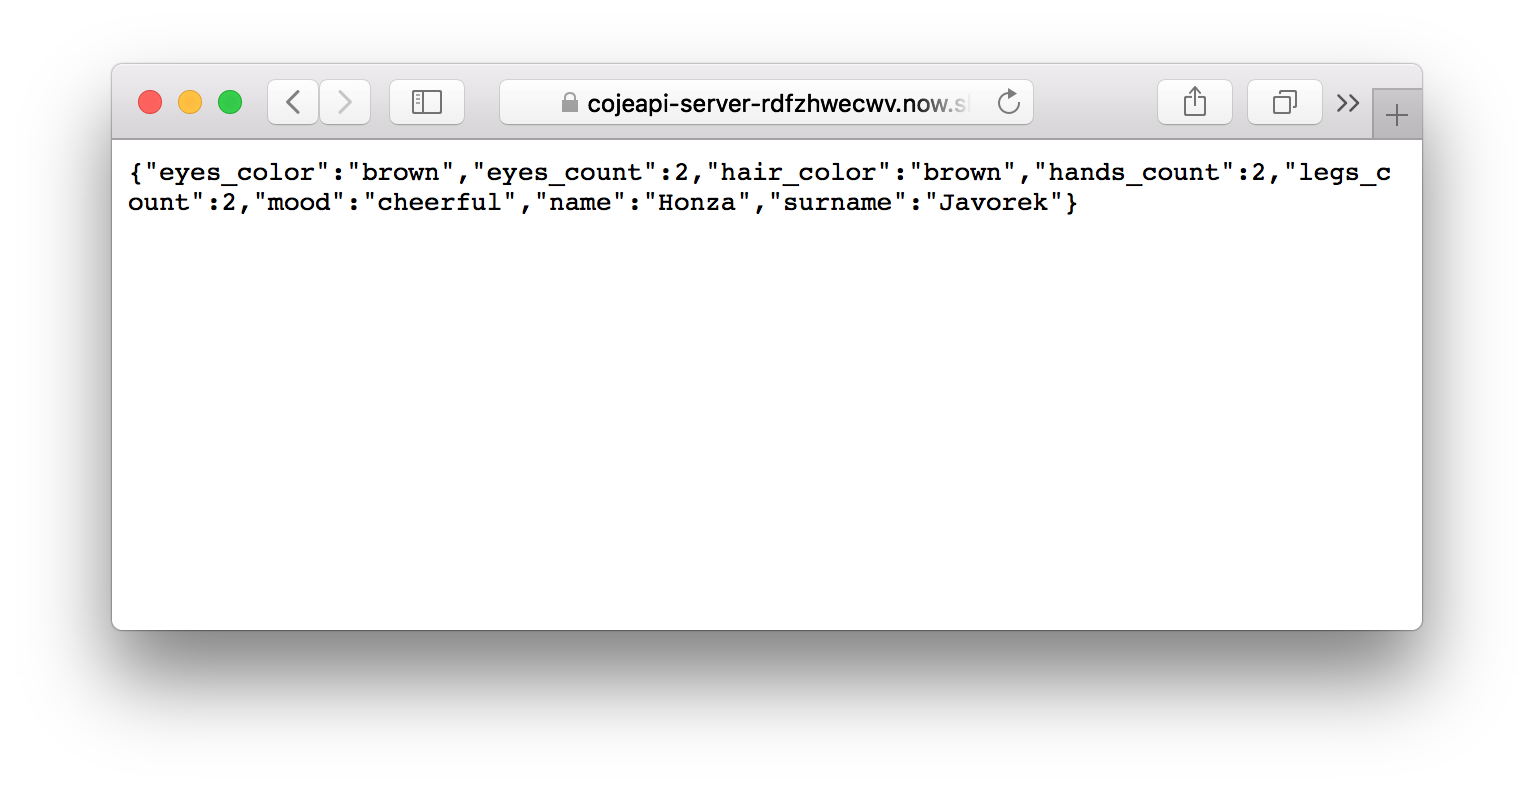
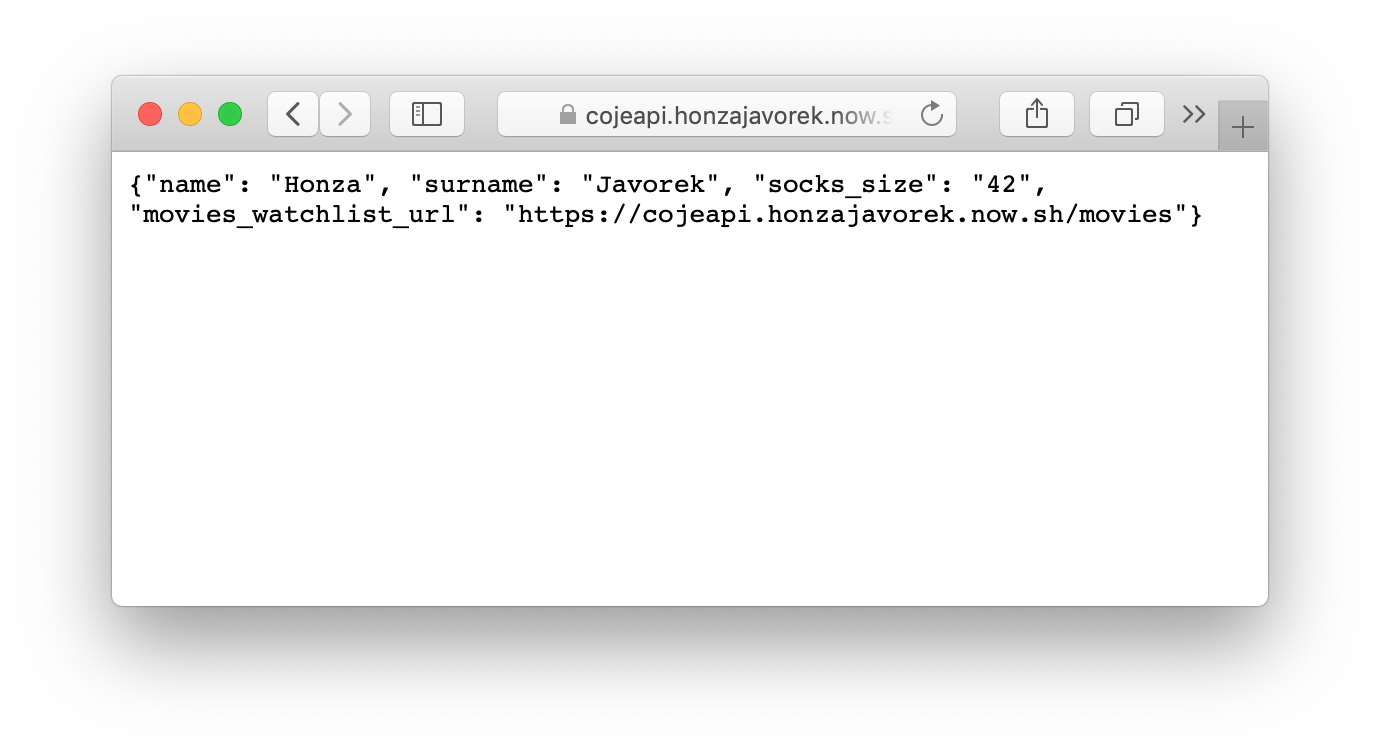
rewrite deployment to now.sh 2.0 by @zeit
Close https://github.com/honzajavorek/cojeapi/issues/34, close https://github.com/honzajavorek/cojeapi/issues/39, close https://github.com/honzajavorek/cojeapi/issues/40, close https://github.com/honzajavorek/cojeapi/issues/36

Changed region(s): [[0.0623, 0.0915, 0.9348, 0.8541]]

diff --git a/code/index.py b/code/index.py
@@ -26,6 +26,7 @@ movies = [
         'name': 'The Last Boy Scout',
         'name_cs': 'Poslední skaut',
         'year': 1991,
+        'stars': ['Bruce Willis', 'Damon Wayans', 'Chelsea Field'],
         'imdb_url': 'https://www.imdb.com/title/tt0102266/',
         'csfd_url': 'https://www.csfd.cz/film/8283-posledni-skaut/',
     },
@@ -34,6 +35,7 @@ movies = [
         'name': 'Mies vailla menneisyyttä',
         'name_cs': 'Muž bez minulosti',
         'year': 2002,
+        'stars': ['Markku Peltola', 'Kati Outinen', 'Juhani Niemelä'],
         'imdb_url': 'https://www.imdb.com/title/tt0311519/',
         'csfd_url': 'https://www.csfd.cz/film/35366-muz-bez-minulosti/',
     },
@@ -42,6 +44,7 @@ movies = [
         'name': 'Sharknado',
         'name_cs': 'Žralokonádo',
         'year': 2013,
+        'stars': ['Ian Ziering', 'Tara Reid', 'John Heard'],
         'imdb_url': 'https://www.imdb.com/title/tt2724064/',
         'csfd_url': 'https://www.csfd.cz/film/343017-zralokonado/',
     },
@@ -50,6 +53,7 @@ movies = [
         'name': 'Mega Shark vs. Giant Octopus',
         'name_cs': 'Megažralok vs. obří chobotnice',
         'year': 2009,
+        'stars': ['Debbie Gibson', 'Lorenzo Lamas', 'Vic Chao'],
         'imdb_url': 'https://www.imdb.com/title/tt1350498/',
         'csfd_url': 'https://www.csfd.cz/film/258268-megazralok-vs-obri-chobotnice/',
     },
@@ -116,6 +120,14 @@ def get_movie_by_id(movies, id):
             return movie
 
 
+def remove_movie_by_id(movies, id):
+    for i, movie in enumerate(movies):
+        if movie['id'] == id:
+            del movies[i]
+            return True
+    return False
+
+
 class MovieResource():
 
     def on_get(self, request, response, id):
@@ -130,6 +142,16 @@ class MovieResource():
             del movie_repr['id']
 
             response.body = json.dumps(movie_repr)
+
+    def on_delete(self, request, response, id):
+        movie = get_movie_by_id(movies, id)
+        if movie is None:
+            response.status = '404 Not Found'
+        elif 'Bruce Willis' in movie['stars']:
+            response.status = '403 Forbidden'
+        else:
+            remove_movie_by_id(movies, id)
+            response.status = '204 No Content'
 
 
 app = falcon.API()

diff --git a/en/conf.py b/en/conf.py
@@ -180,7 +180,15 @@ epub_exclude_files = ['search.html']
 
 # -- External links check -------------------------------------------------
 
-linkcheck_ignore = ['http://127.0.0.1:8000']
+linkcheck_ignore = [
+    # Sphinx (contributing docs)
+    'http://127.0.0.1:8000',
+
+    # Waitress & Falcon
+    'http://0.0.0.0:8080',
+    'http://127.0.0.1:8080',
+    'http://localhost:8080',
+]
 
 
 # -- Extension configuration -------------------------------------------------

diff --git a/cs/conf.py b/cs/conf.py
@@ -181,8 +181,13 @@ epub_exclude_files = ['search.html']
 # -- External links check -------------------------------------------------
 
 linkcheck_ignore = [
-    # localhost
+    # Sphinx (contributing docs)
     'http://127.0.0.1:8000',
+
+    # Waitress & Falcon
+    'http://0.0.0.0:8080',
+    'http://127.0.0.1:8080',
+    'http://localhost:8080',
 
     # heureka.cz blocks requests from CI
     'https://www.heureka.cz',

diff --git a/cs/04-tvorime-server.rst b/cs/04-tvorime-server.rst
@@ -72,9 +72,9 @@ Nyní můžeme spustit naše API. Stačí spustit ``waitress-serve`` s nápověd
     (venv)$ waitress-serve index:app
     Serving on http://0.0.0.0:8080
 
-Waitress nám píše, že na adrese ``http://0.0.0.0:8080`` teď najdeme spuštěné naše API. Bude tam čekat na :ref:`požadavky <http-request>` tak dlouho, dokud v programu nenastane chyba (potom "spadne"), nebo dokud jej v terminálu neukončíme pomocí :kbd:`Ctrl+C`.
+Waitress nám píše, že na adrese http://0.0.0.0:8080 teď najdeme spuštěné naše API. Bude tam čekat na :ref:`požadavky <http-request>` tak dlouho, dokud v programu nenastane chyba (potom "spadne"), nebo dokud jej v terminálu neukončíme pomocí :kbd:`Ctrl+C`.
 
-Když nyní v prohlížeči půjdeme na adresu ``http://0.0.0.0:8080``, měli bychom vidět očekávanou :ref:`odpověď <http-response>`:
+Když nyní v prohlížeči půjdeme na adresu http://0.0.0.0:8080, měli bychom vidět očekávanou :ref:`odpověď <http-response>`:
 
 .. image:: ../_static/images/me-api-text.png
     :alt: Odpověď v textovém formátu
@@ -315,7 +315,7 @@ Doteď bylo to, co jsme poslali v odpovědi, vždy shodné s tím, jak máme dat
     :language: python
     :pyobject: represent_movies
 
-Nyní pojďme upravit ``MoviesResource``. Víme, že adresa našeho API je teď ``http://0.0.0.0:8080``, ale jakmile budeme chtít aplikaci :ref:`uveřejnit někam na internet <nowsh>`, bude zase jiná. Proto je lepší si ji vytáhnout z objektu ``request``. Falcon nám ji poskytuje jako `request.prefix <https://falcon.readthedocs.io/en/stable/api/request_and_response.html#falcon.Request.prefix>`__.
+Nyní pojďme upravit ``MoviesResource``. Víme, že adresa našeho API je teď http://0.0.0.0:8080, ale jakmile budeme chtít aplikaci :ref:`uveřejnit někam na internet <nowsh>`, bude zase jiná. Proto je lepší si ji vytáhnout z objektu ``request``. Falcon nám ji poskytuje jako `request.prefix <https://falcon.readthedocs.io/en/stable/api/request_and_response.html#falcon.Request.prefix>`__.
 
 .. literalinclude:: ../code/movies_repr.py
     :language: python
@@ -643,16 +643,33 @@ Jediným rozdílem je to, že v jejich API byl použit kód :status:`401`. Ten s
 Uveřejňujeme API
 ----------------
 
-.. warning::
+Pokaždé, když jsme spustili Waitress, mohli jsme své API zkoušet na adrese http://0.0.0.0:8080. Možná jste si všimli, že když Waitress v terminálu nejela, adresu nešlo použít.
 
-    Tato kapitola je právě přepisována, aby co nejlépe odrážela současný stav věcí a plně podporovala now 2.0.
+.. code-block:: text
 
-Zatím jsme naši aplikaci spouštěli pouze na svém počítači a neměl k ní přístup nikdo jiný, než my sami. Nebylo by lepší, kdyby naše API bylo veřejné a mohli by jej používat naši kamarádi?
+    $ curl -i http://0.0.0.0:8080/
+    curl: (7) Failed to connect to 0.0.0.0 port 8080: Connection refused
 
-Můžeme k tomu využít službu `now.sh <https://zeit.co/now>`__. Ta nám umožní uveřejnit aplikaci tak, aby nebyla jen na našem počítači, ale mohl na ni přistupovat kdokoliv. Nejdříve nainstalujeme program ``now``:
+.. image:: ../_static/images/localhost-error.png
+    :alt: Adresu http://0.0.0.0:8080 nelze použít ani v prohlížeči
+    :align: center
+
+Tato adresa je totiž spjata s tím, jestli Waitress zrovna jede nebo ne. Také tato adresa funguje jen pro nás. I když spustíme Waitress a na adrese http://0.0.0.0:8080 uvidíme naše API, nikdo jiný jej na té samé adrese nenajde. Je to proto, že adresa ``0.0.0.0`` znamená "na tomto počítači". Pokud bychom tedy někomu poslali http://0.0.0.0:8080/movies jako odkaz na seznam našich oblíbených filmů, je to podobné, jako bychom posílali ``C:\\Users\Honza\Documents\filmy.xlsx``.
+
+.. note::
+    Adres, které znamenají "na tomto počítači" je více. Ekvivalentně k http://0.0.0.0:8080 funguje i http://127.0.0.1:8080 nebo http://localhost:8080. Můžete si to klidně vyzkoušet. Když zapnete Waitress, všechny uvedené adresy by měly mířit na vaše API.
+
+Now
+^^^
+
+Abychom mohli naše API někomu ukázat, musíme jej nejdříve uveřejnit na internet. Můžeme k tomu využít službu `Now <https://zeit.co/now>`__  od společnosti `Zeit <https://zeit.co/>`__. Nejdříve nainstalujeme program ``now``:
 
 #.  Půjdeme na https://zeit.co/download a nainstalujeme si ``now`` pro náš systém
-#.  Otevřeme si příkazovou řádku a zkusíme napsat ``now --version``, abychom ověřili, zda vše funguje, jak má
+
+    .. note::
+        Pokud používáme **Windows**, stáhne se nám archiv ``now-win.exe.gz``. Po rozbalení dostaneme spustitelný soubor ``now-win.exe``. Ten přejmenujeme na ``now.exe`` a přidáme jej do systémové cesty. Pokud přidávat programy do systémové cesty neumíme, pro účely tohoto návodu postačí, pokud soubor ``now.exe`` dáme do složky s naším projektem (tzn. do té složky, kde máme ``index.py``).
+
+#.  Otevřeme si příkazovou řádku a zkusíme spustit ``now --version``, abychom ověřili, zda vše funguje, jak má
 #.  V témže adresáři, ve kterém máme ``index.py``, vytvoříme nový soubor ``now.json`` s následujícím obsahem:
 
     .. literalinclude:: ../code/now.json
@@ -663,34 +680,58 @@ Můžeme k tomu využít službu `now.sh <https://zeit.co/now>`__. Ta nám umož
     .. literalinclude:: ../code/requirements.txt
         :language: text
 
-    Tím říkáme, že aby naše API fungovalo, bude potřeba nejdříve nainstalovat Falcon. Waitress do souboru psát nebudeme, ten potřebujeme jen pro spuštění na našem počítači, `now.sh <https://zeit.co/now>`__ si poradí i bez něj.
+    Tím říkáme, že aby naše API fungovalo, bude potřeba nejdříve nainstalovat Falcon. Waitress do souboru psát nebudeme, tu potřebujeme jen pro spuštění na našem počítači, `now.sh <https://zeit.co/now>`__ si poradí i bez ní.
 
-#.  Nyní zkusíme na příkazové řádce, v našem adresáři s aplikací, spustit příkaz ``now``
-#.  Je pravděpodobné, že ``now`` po nás bude chtít e-mailovou adresu. Zadáme ji a ověříme v naší e-mailové schránce
-#.  Když nyní znova spustíme ``now``, nahraje se naše aplikace na internet (bude to nejspíše chvíli trvat)
+#.  Nyní zkusíme na příkazové řádce, v našem adresáři s aplikací, spustit příkaz ``now login``
+#.  Now po nás bude chtít e-mailovou adresu. Zadáme ji a ověříme v naší e-mailové schránce
+#.  Když nyní spustíme ``now``, nahraje se naše aplikace na internet (bude to nejspíše chvíli trvat)
 #.  Po nějaké době bychom měli dostat adresu, na které můžeme naše API najít - něco ve tvaru https://cojeapi.honzajavorek.now.sh/
 
-Když na tuto adresu půjdeme v prohlížeči, měli bychom vidět HTTP odpověď na endpoint ``/``:
+Pokud na tuto adresu půjdeme v prohlížeči, měli bychom vidět naše API:
 
 .. image:: ../_static/images/now.png
     :alt: now.sh v prohlížeči
     :align: center
 
-Můžeme na naše API posílat požadavky samozřejmě i pomocí curl:
+Samozřejmě můžeme na naše API posílat požadavky i pomocí curl:
 
 .. code-block:: text
 
-    $ curl -i 'https://cojeapi.honzajavorek.now.sh/'
     HTTP/2 200
-    date: Sat, 10 Nov 2018 11:12:32 GMT
-    ...
     content-type: application/json
+    content-length: 129
+    ...
+    server: now
 
-    {"eyes_color":"brown","eyes_count":2,"hair_color":"brown","hands_count":2,"legs_count":2,"mood":"grumpy","name":"Honza","surname":"Javorek"}
+    {"name": "Honza", "surname": "Javorek", "socks_size": "42", "movies_watchlist_url": "https://cojeapi.honzajavorek.now.sh/movies"}
 
-A co je ještě lepší, na rozdíl od všech předchozích případů, nyní může na naše API posílat požadavky i někdo jiný! Pošlete tuto adresu kamarádce/kamarádovi nebo kolegyni/kolegovi, ať zkusí se svým prohlížečem a s curl posílat požadavky na vaše API. Vy zase můžete zkoušet jejich API. Nebojme se experimentovat, třeba přidat oblečení, nebo nějaké smazat.
+A co je ještě lepší, na rozdíl od všech předchozích případů, nyní může na naše API posílat požadavky i někdo jiný!
 
-Pokud budeme chtít udělat v našem API změny a ty opět promítnout veřejně, budeme muset znova spustit příkaz ``now``.
+.. tabs::
+
+    .. tab:: Cvičení
+
+        Pokud procházíte tento návod v rámci workshopu, například PyWorking, pošlete tuto adresu někomu jinému z účastníků, ať zkusí se svým prohlížečem a s curl posílat požadavky na vaše API. Vy zase můžete zkoušet jejich API. Zkuste do jejich seznamu přidat svůj oblíbený film, nebo film z jejich seznamu smazat.
+
+        **Pozor na lomítka na konci adres** - tak jak jsme naprogramovali naše API a nastavili jej na Now vyústí v citlivé dodržování rozdílu mezi
+
+        -   ``/movies`` - :status:`200`
+        -   ``/movies/`` - :status:`404`
+
+Aktualizujeme Now
+^^^^^^^^^^^^^^^^^
+
+Naše API má teď dva životy. Zaprvé existuje jako tzv. "vývojová verze" (anglicky *development*, někdy *dev environment*, počeštěně *dev prostředí*), která se nachází pouze na našem počítači a kterou můžeme snadno změnit a poté spustit přes Waitress.
+
+Zadruhé existuje jako tzv. "produkce" (anglicky *production*, *production environment*, tedy *produkční prostředí*), kde k našemu API mohou přistupovat jeho uživatelé.
+
+Když změníme zdrojový kód souborů na našem počítači, projeví se to ve vývojové verzi na adrese http://0.0.0.0:8080, ale už ne na https://cojeapi.honzajavorek.now.sh. Aby se to projevilo i tam, musíme říct Now, aby znovu nahrálo naše soubory a aktualizovalo produkci s tím, co zrovna máme na počítači:
+
+.. code-block:: text
+
+    $ now
+
+Ano, pokud budeme chtít udělat v našem API změny a ty opět promítnout veřejně, stačí jen znova spustit příkaz ``now`` v téže složce, kde máme ``index.py``, ``requirements.txt`` a ``now.json``.
 
 .. _dokumentace:
 

diff --git a/cs/02-klient-server.rst b/cs/02-klient-server.rst
@@ -100,7 +100,7 @@ Instalace curl
 
             $ choco install curl
 
-        Jinak musíme curl stáhnout a nainstalovat ručně. Na `stránkách programu <https://curl.haxx.se/dlwiz/?type=bin&os=Win64&flav=-&ver=*&cpu=x86_64>`__ vybereme tu verzi, která má v popisku *SSL enabled* a *file is packaged using zip*. Klikneme na :kbd:`Download`. Rozbalíme stáhnutý zip, najdeme ``curl.exe`` a přidáme jej do systémové cesty.
+        Jinak musíme curl stáhnout a nainstalovat ručně. Na `stránkách programu <https://curl.haxx.se/>`__ najdeme `verzi pro Windows <https://curl.haxx.se/windows/>`__ a podle typu našich Windows (`Jak zjistit, zda máme 32bitové, nebo 64bitové? <https://www.wikihow.cz/Jak-zjistit,-zda-m%C3%A1te-32bitov%C3%A9,-nebo-64-bitov%C3%A9-Windows>`__) vybereme odpovídající verzi. Po rozbalení dostaneme spustitelný soubor ``curl.exe``, který přidáme do systémové cesty. Pokud přidávat programy do systémové cesty neumíme, pro účely tohoto návodu postačí, pokud soubor ``curl.exe`` dáme do té složky, ze které jej budeme chtít spouštět.
 
         Nakonec necháme program vypsat svou verzi, čímž ověříme, jestli funguje:
 
@@ -110,10 +110,6 @@ Instalace curl
             curl x.x.x (...) ...
             Protocols: ...
             Features: ...
-
-        .. note::
-
-            Tento instalační návod je pro úplné začátečníky příliš stručný, ale snad si většina lidí nějak poradí. Můžete také :ref:`pomoci návod rozšířit <jak-prispivat>`.
 
 Příklady s curl
 ^^^^^^^^^^^^^^^
